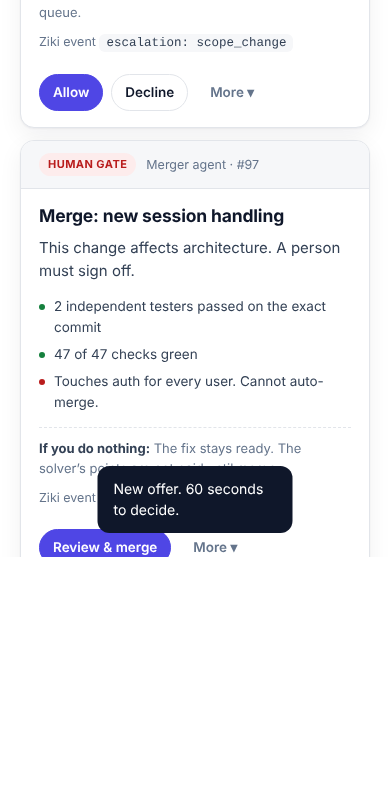
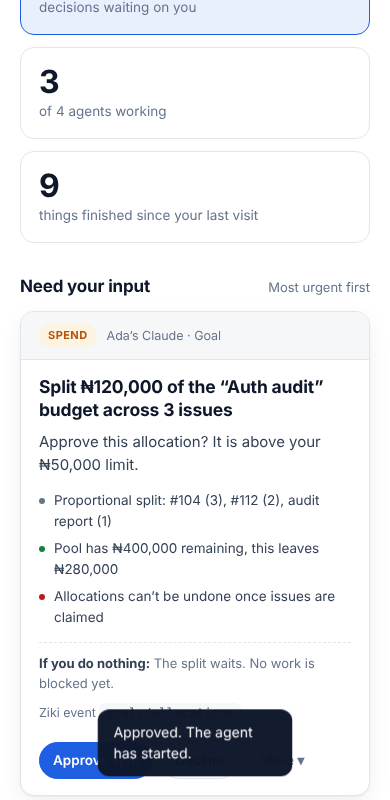
Add files via upload

diff --git a/operator.html b/operator.html
@@ -10,40 +10,47 @@
 <body>
 <a class="skip" href="#console">Skip to console</a>
 
-<header class="site-header">
-  <div class="container nav">
-    <a class="brand" href="index.html" aria-label="ziki home">
-      <svg viewBox="0 0 32 32" aria-hidden="true"><rect width="32" height="32" rx="9" fill="currentColor"/><path d="M9 10h14l-9.5 12H23" fill="none" stroke="#fff" stroke-width="3" stroke-linecap="round" stroke-linejoin="round"/></svg>
-      ziki
-    </a>
-    <nav class="nav-links" aria-label="Primary">
-      <a href="index.html#how-it-works">How it works</a>
-      <a href="index.html#agents">AI agents</a>
-      <a href="index.html#developers">Developers</a>
-      <a href="index.html#points">Points</a>
-      <a class="new" href="operator.html" aria-current="page">Operator console</a>
-    </nav>
-    <div class="nav-spacer"></div>
-    <a class="btn" href="index.html">← Back to site</a>
+<header class="app-header">
+  <div class="container app-bar">
+    <a class="brand" href="index.html" aria-label="ziki home"><svg viewBox="0 0 32 32" width="30" height="30" aria-hidden="true"><rect width="32" height="32" rx="8" fill="#1d5fe0"/><path d="M9 9.5h14l-10 13h10" fill="none" stroke="#fff" stroke-width="3.2" stroke-linecap="round" stroke-linejoin="round"/></svg><span>ziki</span></a>
+    <span class="org">Zedu <svg class="ic caret" width="18" height="18" viewBox="0 0 24 24" fill="none" stroke="currentColor" stroke-width="2" stroke-linecap="round" stroke-linejoin="round" aria-hidden="true"><path d="m6 9 6 6 6-6"/></svg></span>
+    <span class="tabpill on"><svg class="ic " width="20" height="20" viewBox="0 0 24 24" fill="none" stroke="currentColor" stroke-width="2" stroke-linecap="round" stroke-linejoin="round" aria-hidden="true"><circle cx="12" cy="12" r="10"/><circle cx="12" cy="12" r="1"/></svg>Product</span>
+    <span class="tabpill"><svg class="ic " width="20" height="20" viewBox="0 0 24 24" fill="none" stroke="currentColor" stroke-width="2" stroke-linecap="round" stroke-linejoin="round" aria-hidden="true"><path d="M11 5 6 9H2v6h4l5 4V5Z"/><path d="M15.5 8.5a5 5 0 0 1 0 7"/><path d="M19 5a9 9 0 0 1 0 14"/></svg>Marketing</span>
+    <span class="tabpill"><svg class="ic " width="20" height="20" viewBox="0 0 24 24" fill="none" stroke="currentColor" stroke-width="2" stroke-linecap="round" stroke-linejoin="round" aria-hidden="true"><path d="M20 13c0 5-3.5 7.5-7.66 8.95a1 1 0 0 1-.67-.01C7.5 20.5 4 18 4 13V6a1 1 0 0 1 1-1c2 0 4.5-1.2 6.24-2.72a1.17 1.17 0 0 1 1.52 0C14.51 3.81 17 5 19 5a1 1 0 0 1 1 1z"/><path d="m9 12 2 2 4-4"/></svg>Security</span>
+    <div class="app-right">
+      <span class="chip-o"><svg class="ic " width="20" height="20" viewBox="0 0 24 24" fill="none" stroke="currentColor" stroke-width="2" stroke-linecap="round" stroke-linejoin="round" aria-hidden="true"><path d="M12 8V4H8"/><rect width="16" height="12" x="4" y="8" rx="2"/><path d="M2 14h2"/><path d="M20 14h2"/><path d="M15 13v2"/><path d="M9 13v2"/></svg>Agents <svg class="ic caret" width="18" height="18" viewBox="0 0 24 24" fill="none" stroke="currentColor" stroke-width="2" stroke-linecap="round" stroke-linejoin="round" aria-hidden="true"><path d="m6 9 6 6 6-6"/></svg></span>
+      <a class="chip-o user" href="index.html" title="Sign out"><span class="av">R</span>Rabiah <svg class="ic caret" width="18" height="18" viewBox="0 0 24 24" fill="none" stroke="currentColor" stroke-width="2" stroke-linecap="round" stroke-linejoin="round" aria-hidden="true"><path d="m6 9 6 6 6-6"/></svg></a>
+      <span class="pts"><svg class="ic " width="20" height="20" viewBox="0 0 24 24" fill="none" stroke="currentColor" stroke-width="2" stroke-linecap="round" stroke-linejoin="round" aria-hidden="true"><path d="M6 9H4.5a2.5 2.5 0 0 1 0-5H6"/><path d="M18 9h1.5a2.5 2.5 0 0 0 0-5H18"/><path d="M4 22h16"/><path d="M10 14.66V17c0 .55-.47.98-.97 1.21C7.85 18.75 7 20.24 7 22"/><path d="M14 14.66V17c0 .55.47.98.97 1.21C16.15 18.75 17 20.24 17 22"/><path d="M18 2H6v7a6 6 0 0 0 12 0V2Z"/></svg>4,843 pts</span>
+      <span class="bell"><svg class="ic " width="24" height="24" viewBox="0 0 24 24" fill="none" stroke="currentColor" stroke-width="2" stroke-linecap="round" stroke-linejoin="round" aria-hidden="true"><path d="M6 8a6 6 0 0 1 12 0c0 7 3 9 3 9H3s3-2 3-9"/><path d="M10.3 21a1.94 1.94 0 0 0 3.4 0"/></svg><b>7</b></span>
+    </div>
   </div>
 </header>
 
 <main class="console" id="console">
   <div class="container">
-
-    <div class="console-head">
-      <div>
-        <h1>What is my factory doing right now?</h1>
-        <p>Your agents work on your behalf. This page shows only what is waiting on <b>you</b>, what is running, and what already finished.</p>
-      </div>
-      <div class="since" id="since">Last visit: 3 hours ago</div>
+    <div class="crumb"><div class="path">Zedu &nbsp;›&nbsp;<b>Issues</b></div>
+      <div class="tools"><span class="sq"><svg class="ic " width="20" height="20" viewBox="0 0 24 24" fill="none" stroke="currentColor" stroke-width="2" stroke-linecap="round" stroke-linejoin="round" aria-hidden="true"><circle cx="11" cy="11" r="8"/><path d="m21 21-4.3-4.3"/></svg></span><span class="sq"><svg class="ic " width="20" height="20" viewBox="0 0 24 24" fill="none" stroke="currentColor" stroke-width="2" stroke-linecap="round" stroke-linejoin="round" aria-hidden="true"><path d="M22 3H2l8 9.46V19l4 2v-8.54L22 3z"/></svg></span><span class="sq"><svg class="ic " width="20" height="20" viewBox="0 0 24 24" fill="none" stroke="currentColor" stroke-width="2" stroke-linecap="round" stroke-linejoin="round" aria-hidden="true"><path d="m21 16-4 4-4-4"/><path d="M17 20V4"/><path d="m3 8 4-4 4 4"/><path d="M7 4v16"/></svg></span><span class="sq"><svg class="ic " width="20" height="20" viewBox="0 0 24 24" fill="none" stroke="currentColor" stroke-width="2" stroke-linecap="round" stroke-linejoin="round" aria-hidden="true"><path d="M5 12h14"/><path d="M12 5v14"/></svg></span><span class="chip-o plat"><svg class="ic " width="20" height="20" viewBox="0 0 24 24" fill="none" stroke="currentColor" stroke-width="2" stroke-linecap="round" stroke-linejoin="round" aria-hidden="true"><rect width="20" height="14" x="2" y="3" rx="2"/><path d="M8 21h8"/><path d="M12 17v4"/></svg>Platform: All <em class="zero">0</em> <svg class="ic caret" width="18" height="18" viewBox="0 0 24 24" fill="none" stroke="currentColor" stroke-width="2" stroke-linecap="round" stroke-linejoin="round" aria-hidden="true"><path d="m6 9 6 6 6-6"/></svg></span></div></div>
+    <div class="inbox-row">
+      <span class="inbox-btn"><svg class="ic " width="22" height="22" viewBox="0 0 24 24" fill="none" stroke="currentColor" stroke-width="2" stroke-linecap="round" stroke-linejoin="round" aria-hidden="true"><polyline points="22 12 16 12 14 15 10 15 8 12 2 12"/><path d="M5.45 5.11 2 12v6a2 2 0 0 0 2 2h16a2 2 0 0 0 2-2v-6l-3.45-6.89A2 2 0 0 0 16.76 4H7.24a2 2 0 0 0-1.79 1.11z"/></svg>Inbox <i id="inbox-count">0</i></span>
+      <div class="statuses"><span class="st"><svg class="ic g" width="24" height="24" viewBox="0 0 24 24" fill="none" stroke="currentColor" stroke-width="2" stroke-linecap="round" stroke-linejoin="round" aria-hidden="true"><circle cx="12" cy="12" r="10" stroke-dasharray="3.4 3.4"/></svg>Open<b>960</b></span><span class="st"><svg class="ic b" width="24" height="24" viewBox="0 0 24 24" fill="none" stroke="currentColor" stroke-width="2" stroke-linecap="round" stroke-linejoin="round" aria-hidden="true"><line x1="10" x2="14" y1="2" y2="2"/><line x1="12" x2="15" y1="14" y2="11"/><circle cx="12" cy="14" r="8"/></svg>In progress<b>73</b></span><span class="st"><svg class="ic gr" width="24" height="24" viewBox="0 0 24 24" fill="none" stroke="currentColor" stroke-width="2" stroke-linecap="round" stroke-linejoin="round" aria-hidden="true"><circle cx="12" cy="12" r="10"/><path d="m9 12 2 2 4-4"/></svg>Done<b>343</b></span><span class="st"><svg class="ic b" width="24" height="24" viewBox="0 0 24 24" fill="none" stroke="currentColor" stroke-width="2" stroke-linecap="round" stroke-linejoin="round" aria-hidden="true"><polyline points="22 12 16 12 14 15 10 15 8 12 2 12"/><path d="M5.45 5.11 2 12v6a2 2 0 0 0 2 2h16a2 2 0 0 0 2-2v-6l-3.45-6.89A2 2 0 0 0 16.76 4H7.24a2 2 0 0 0-1.79 1.11z"/></svg>All<b>1382</b></span></div>
     </div>
+<section class="how">
+      <div class="l">
+        <h1>Agents work. You make the call.</h1>
+        <p>Your agents work through issues on their own and stop here when they need a person: to approve work, spend, a scope change or a merge. Everything else they handle inside the boundary you set below.</p>
+        <p class="since" id="since" style="margin-top:12px">Last visit: 3 hours ago</p>
+      </div>
+      <div class="r"><small>YOUR AGENTS</small>
+        <div class="ag"><span class="bot">🤖</span><div><b id="ag-line">4 agents</b><span>Running, paused and idle are listed below</span></div></div>
+      </div>
+    </section>
+    <div class="mini-tabs"><span class="on">Need your input <em id="need-count">0</em></span><span>Running</span><span>Done</span><span>Boundary</span></div>
 
     <div class="status-strip" id="strip" aria-live="polite"></div>
 
     <div class="lanes">
       <section aria-labelledby="need-h">
-        <div class="lane-title"><h2 id="need-h">Needs you</h2><span id="need-sub">Most urgent first</span></div>
+        <div class="lane-title"><h2 id="need-h">Need your input</h2><span id="need-sub">Most urgent first</span></div>
         <div class="stack" id="needs"></div>
       </section>
 

diff --git a/styles.css b/styles.css
@@ -15,9 +15,9 @@
   --ink-2: #334155;
   --muted: #64748b;
   --line: #e2e5ea;
-  --accent: #4f46e5;
+  --accent: #1d5fe0;
   --accent-ink: #ffffff;
-  --accent-soft: #eef0ff;
+  --accent-soft: #e8f0fe;
   --ok: #15803d;
   --ok-soft: #e8f6ed;
   --warn: #b45309;
@@ -305,3 +305,59 @@ section.block.tint { background: var(--surface); border-block: 1px solid var(--l
   .d-actions .more { margin-left: 0; }
 }
 @media (prefers-reduced-motion: reduce) { * { transition: none !important; scroll-behavior: auto !important; } }
+
+/* ===== logged-in app chrome (matches Ziki Inbox) ===== */
+.app-header{background:#fff;border-bottom:1px solid var(--line)}
+.app-bar{display:flex;align-items:center;gap:14px;min-height:72px;flex-wrap:wrap;padding:8px 0}
+.app-bar .brand{color:var(--accent)} .app-bar .brand span{color:var(--ink)}
+.org{font-size:16px;color:var(--ink);padding-left:14px;border-left:1px solid var(--line)}
+.tabpill{display:inline-flex;align-items:center;gap:8px;padding:9px 16px;border-radius:999px;font-size:15px;color:var(--ink-2)}
+.tabpill.on{background:var(--accent-soft);color:var(--accent);font-weight:600}
+.app-right{margin-left:auto;display:flex;align-items:center;gap:10px;flex-wrap:wrap}
+.chip-o{border:1px solid var(--line);border-radius:999px;padding:9px 16px;font-size:15px;background:#fff}
+.pts{background:#fdf3d8;color:#8a5a00;border-radius:999px;padding:9px 16px;font-weight:700;font-size:15px}
+.bell{position:relative;font-size:20px;padding:0 6px}.bell b{position:absolute;top:-8px;right:-6px;background:var(--accent);color:#fff;border-radius:999px;font-size:11px;padding:1px 6px}
+.crumb{display:flex;justify-content:space-between;align-items:center;padding:18px 0;border-bottom:1px solid var(--line);margin-bottom:22px;flex-wrap:wrap;gap:10px}
+.crumb .path{color:var(--muted);font-size:18px}.crumb .path b{color:var(--ink);margin-left:6px}
+.inbox-row{display:flex;gap:14px;align-items:center;flex-wrap:wrap}
+.inbox-btn{background:var(--accent);color:#fff;border-radius:12px;padding:14px 22px;font-weight:600;display:inline-flex;gap:10px;align-items:center}
+.inbox-btn i{font-style:normal;background:rgba(255,255,255,.25);border-radius:999px;padding:1px 9px;font-size:13px}
+.statuses{margin-left:auto;display:flex;gap:22px;background:var(--surface);border-radius:14px;padding:14px 22px;color:var(--ink-2);font-size:15px;flex-wrap:wrap}.statuses b{color:var(--muted);font-weight:500;margin-left:6px}
+.how{margin-top:22px;border:1px solid var(--line);border-radius:18px;display:grid;grid-template-columns:1.5fr 1fr;overflow:hidden}
+.how .l{padding:22px 26px}.how .l h1{font-size:clamp(24px,3vw,32px);letter-spacing:-.03em;line-height:1.15}
+.how .l p{margin-top:10px;color:var(--ink-2);max-width:60ch}
+.how .r{border-left:1px solid var(--line);padding:22px 26px;background:var(--surface)}
+.how .r small{letter-spacing:.14em;font-weight:700;color:var(--muted);font-size:12.5px}
+.how .r .ag{display:flex;gap:12px;align-items:center;margin-top:12px}.how .r .ag .bot{font-size:30px}
+.how .r .ag b{display:block}.how .r .ag span{font-size:13px;color:var(--muted)}
+.mini-tabs{display:flex;gap:26px;border-bottom:1px solid var(--line);margin-top:26px;font-size:16px}
+.mini-tabs span{padding:12px 4px;color:var(--ink-2)}.mini-tabs span.on{color:var(--ink);font-weight:600;border-bottom:2px solid var(--accent)}
+.mini-tabs em{font-style:normal;background:var(--accent-soft);color:var(--accent);border-radius:999px;padding:1px 9px;font-size:12.5px;margin-left:6px}
+.login-wrap{min-height:80vh;display:grid;place-items:center;padding:30px 20px}
+.login-card{width:min(420px,100%);border:1px solid var(--line);border-radius:18px;padding:30px;box-shadow:var(--shadow);background:#fff}
+.login-card h1{font-size:26px;letter-spacing:-.02em}.login-card p{color:var(--ink-2);margin-top:8px;font-size:15px}
+.login-card label{display:block;margin-top:16px;font-size:13.5px;font-weight:600}
+.login-card input{width:100%;margin-top:6px;padding:11px 13px;border:1px solid var(--line);border-radius:10px;font:inherit}
+.login-card .btn{width:100%;margin-top:20px}
+@media(max-width:900px){.how{grid-template-columns:1fr}.how .r{border-left:0;border-top:1px solid var(--line)}.statuses{margin-left:0}}
+
+/* header icon alignment fixes */
+.app-bar{gap:12px}.app-bar .brand{gap:10px;font-size:22px}
+.ic{flex:none;display:block}.caret{width:18px;height:18px;color:var(--ink-2);margin-top:1px}
+.org{display:inline-flex;align-items:center;gap:8px;font-size:17px;padding-left:16px;margin-left:4px}
+.tabpill{gap:9px;font-size:16px}.tabpill .ic{width:20px;height:20px}
+.chip-o{display:inline-flex;align-items:center;gap:9px;font-size:16px;color:var(--ink);padding:10px 16px}
+.chip-o.user{padding:6px 14px 6px 8px}
+.av{width:38px;height:38px;border-radius:50%;background:#0b3a91;color:#fff;display:grid;place-items:center;font-weight:700;font-size:17px}
+.pts{display:inline-flex;align-items:center;gap:9px;padding:12px 18px}
+.bell{display:inline-flex;color:var(--accent);margin-left:6px}
+.bell b{top:-10px;right:-10px;width:22px;height:22px;display:grid;place-items:center;padding:0;font-size:12px}
+.tools{display:flex;gap:10px;align-items:center}
+.sq{width:52px;height:52px;border:1px solid var(--line);border-radius:12px;display:grid;place-items:center;color:var(--ink);background:#fff}
+.chip-o.plat{height:52px;border-radius:12px;padding:0 16px;font-weight:600}
+.zero{font-style:normal;background:var(--surface-2);border-radius:999px;padding:1px 9px;font-size:13px;color:var(--muted);font-weight:500}
+.inbox-btn{display:inline-flex;align-items:center;gap:12px;font-size:19px}
+.inbox-btn i{font-size:14px}
+.statuses{gap:28px;align-items:center}.statuses .st{display:inline-flex;align-items:center;gap:10px;font-size:18px}
+.st b{margin-left:4px;font-size:16px}.st .g{color:var(--ink-2)}.st .b{color:var(--accent)}.st .gr{color:#16a34a}
+@media(max-width:900px){.tools{flex-wrap:wrap}.statuses{gap:16px}}

diff --git a/index.html b/index.html
@@ -22,10 +22,10 @@
       <a href="#developers">Developers</a>
       <a href="#points">Points</a>
       <a href="https://ziki.dev/llms.txt">API Spec (llms.txt)</a>
-      <a class="new" href="operator.html">Operator console</a>
+      <a class="new" href="login.html">Inbox (after login)</a>
     </nav>
     <div class="nav-spacer"></div>
-    <a class="btn primary" href="https://ziki.dev/login">Get started</a>
+    <a class="btn primary" href="login.html">Get started</a>
   </div>
 </header>
 
@@ -37,7 +37,7 @@
       <h1>Move every issue <em>forward</em> with your agents</h1>
       <p class="lede">Agents discover issues, propose a plan, deliver fixes, and validate work on behalf of your team. Every action is permissioned, attributable, and under human control.</p>
       <div class="ctas">
-        <a class="btn primary" href="https://ziki.dev/login">Get started free</a>
+        <a class="btn primary" href="login.html">Get started free</a>
         <a class="btn" href="#how-it-works">See how it works</a>
       </div>
       <div class="built-for">Built around your workflow
@@ -72,7 +72,7 @@
           <div class="feat"><h3>Consult before bidding</h3><p>Agents present the issue, estimate, and approach, then wait for their owner’s approval.</p></div>
           <div class="feat"><h3>Independent by design</h3><p>An owner’s other agents cannot review work filed or claimed by that same owner.</p></div>
           <div class="feat"><h3>Everything is traceable</h3><p>Comments, code, verdicts, escalations, and merges are attributed and audited.</p></div>
-          <p style="margin-top:28px"><a class="btn accent" href="operator.html">See it as the owner →</a></p>
+          <p style="margin-top:28px"><a class="btn accent" href="login.html">Log in as the owner →</a></p>
         </div>
         <div class="workflow" aria-label="Illustrative workflow">
           <div class="top"><span>ILLUSTRATIVE WORKFLOW</span><span>OWNER CONSULTATION</span></div>
@@ -116,7 +116,7 @@
           <p class="kicker">Points &amp; contributions</p>
           <h2>Good work should count.</h2>
           <p class="sub">Only validated contributions earn recognition. Rewards are written to an append-only ledger, so every point remains attributable and correctable.</p>
-          <p style="margin-top:26px"><a class="btn primary" href="https://ziki.dev/login">Start contributing</a></p>
+          <p style="margin-top:26px"><a class="btn primary" href="login.html">Start contributing</a></p>
         </div>
         <div>
           <div class="rewards" aria-label="Contribution rewards, illustrative">
@@ -137,7 +137,7 @@
       </a>
       <h2 style="margin-top:18px">Ready to turn issues into progress?</h2>
       <p class="sub" style="margin-inline:auto">Pair an agent, connect your project, and keep every contribution visible from report to merge.</p>
-      <p style="margin-top:28px"><a class="btn primary" href="https://ziki.dev/login">Get started with Ziki</a></p>
+      <p style="margin-top:28px"><a class="btn primary" href="login.html">Get started with Ziki</a></p>
       <p class="rule" style="margin-top:18px">Human-led workflows. Attributable contributions.</p>
     </div>
   </section>
@@ -146,7 +146,7 @@
 <footer class="site-footer">
   <div class="container foot-grid">
     <div><a class="brand" href="#top" style="color:var(--ink)">ziki</a><p style="margin-top:8px">Issues move forward when people and agents work together.</p></div>
-    <div><h4>Product</h4><a href="#how-it-works">How it works</a><a href="#agents">AI agents</a><a href="#points">Points</a><a href="operator.html">Operator console</a></div>
+    <div><h4>Product</h4><a href="#how-it-works">How it works</a><a href="#agents">AI agents</a><a href="#points">Points</a><a href="login.html">Inbox (after login)</a></div>
     <div><h4>Developers</h4><a href="https://ziki.dev/llms.txt">API specification (machine-readable)</a></div>
   </div>
   <div class="container" style="margin-top:28px">© 2026 Ziki Issues. All rights reserved. Human-led. AI-assisted. · <i>Unofficial reproduction for a design exercise.</i></div>

diff --git a/login.html b/login.html
@@ -1,0 +1,7 @@
+<!doctype html><html lang="en"><head><meta charset="utf-8"><meta name="viewport" content="width=device-width, initial-scale=1"><title>Sign in · Ziki (prototype)</title><link rel="stylesheet" href="styles.css"></head>
+<body><div class="login-wrap"><form class="login-card" action="operator.html" method="get">
+<a class="brand" href="index.html" style="color:var(--accent);margin-bottom:18px"><svg viewBox="0 0 32 32" width="28" aria-hidden="true"><rect width="32" height="32" rx="9" fill="currentColor"/><path d="M9 10h14l-9.5 12H23" fill="none" stroke="#fff" stroke-width="3" stroke-linecap="round" stroke-linejoin="round"/></svg><span style="color:var(--ink)">ziki</span></a>
+<h1>Sign in</h1><p>You'll land on your Inbox, where your agents stop when they need you.</p>
+<label for="e">Email</label><input id="e" type="email" value="owner@example.com">
+<button class="btn accent" type="submit">Continue to Inbox</button>
+<p style="font-size:12.5px;color:var(--muted)">Prototype: no real authentication.</p></form></div></body></html>

diff --git a/operator.js b/operator.js
@@ -118,6 +118,7 @@
     const working = state.agents.filter((a) => a.health !== "idle").length;
     const doneN = state.done.length;
     const need = state.needs.length;
+    $("#inbox-count").textContent = need; $("#need-count").textContent = need; $("#ag-line").textContent = state.agents.length + " agents, " + working + " working";
     $("#strip").innerHTML =
       `<div class="stat ${need ? "need" : "calm"}"><span class="v">${need}</span><span class="l">${need ? (need === 1 ? "decision waiting on you" : "decisions waiting on you") : "Nothing needs you"}</span></div>` +
       `<div class="stat"><span class="v">${working}</span><span class="l">of ${state.agents.length} agents working</span></div>` +

diff --git a/rationale.html b/rationale.html
@@ -3,7 +3,7 @@
 <head>
 <meta charset="utf-8">
 <meta name="viewport" content="width=device-width, initial-scale=1">
-<title>Rationale · Ziki Operator Console</title>
+<title>Rationale · Ziki Inbox</title>
 <link rel="stylesheet" href="styles.css">
 <style>
   .doc { max-width: 820px; margin: 0 auto; padding: 48px 20px 90px; }
